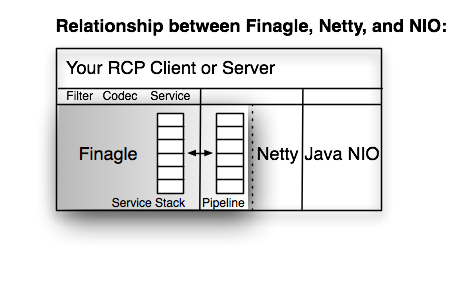
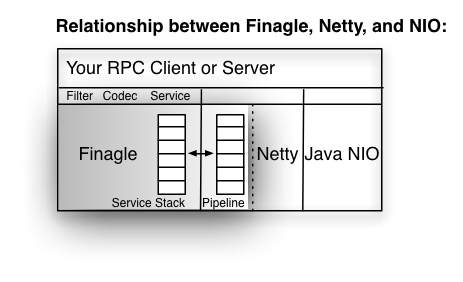
Merge commit 'a8f0b21a582c9198f7b9a493da1fa0eb53cf257a'
(sapling split of f3c1c580bac0fbd24ef6452706ece2a18d01e49e)

Changed region(s): [[0.121, 0.1418, 0.8467, 0.766], [0.121, 0.0567, 0.6652, 0.1135], [0.6955, 0.0567, 0.9676, 0.1135]]

diff --git a/birdcage/finagle/README.md b/birdcage/finagle/README.md
@@ -1,6 +1,6 @@
 <a name="Top"></a>
 
-# Finagle Developer Guide (July 24, 2011 Draft)
+# Finagle Developer Guide (September 8, 2011 Draft)
 
 * <a href="#Quick Start">Quick Start</a>
   - <a href="#Simple HTTP Server">Simple HTTP Server</a>
@@ -40,9 +40,6 @@
 * <a href="#Using ServerSet Objects">Using ServerSet Objects</a>
 * <a href="#Additional Samples">Additional Samples</a>
 * <a href="#API Reference Documentation">API Reference Documentation</a>
-* <a href="#Revision History">Revision History</a>
-  - <a href="#1.4.3 (2011-05-17)">1.4.3 (2011-05-17)</a>
-  - <a href="#1.2.3 (2011-03-18)">1.2.3 (2011-03-18)</a>
 
 <a name="Quick Start"></a>
 
@@ -200,7 +197,8 @@ In this Finagle example, the `ThriftServer` object implements the `Hello` servic
       new Hello.Service(processor, new TBinaryProtocol.Factory()),               // 3
       ServerBuilder.get()
         .name("HelloService")
-        .codec(ThriftServerFramedCodecFactory$.MODULE$)
+        .codec(ThriftServerFramedCodec.get())
+     // .codec(ThriftServerFramedCodecFactory$.MODULE$) previously
         .bindTo(new InetSocketAddress(8080)));
 
 ##### Thrift Server Code Annotations
@@ -323,13 +321,13 @@ Use the Finagle library to implement asynchronous Remote Procedure Call (RPC) cl
 
 ## Architecture
 
-Finagle extends the stream-oriented [Netty](http://www.jboss.org/netty) model to provide asynchronous requests and responses for remote procedure calls (RPC). Internally, Finagle manages a service stack to track outstanding requests, responses, and the events related to them. Finagle uses a Netty pipeline to manage connections between the streams underlying request and response messages. The following diagram shows the relationship between your RCP client or server, Finagle, Netty, and Java libraries:
+Finagle extends the stream-oriented [Netty](http://www.jboss.org/netty) model to provide asynchronous requests and responses for remote procedure calls (RPC). Internally, Finagle manages a service stack to track outstanding requests, responses, and the events related to them. Finagle uses a Netty pipeline to manage connections between the streams underlying request and response messages. The following diagram shows the relationship between your RPC client or server, Finagle, Netty, and Java libraries:
 
-![Relationship between your RCP client or server, Finagle, Netty, and Java Libraries (doc/FinagleRelationship.png)](https://github.com/twitter/finagle/raw/master/doc/FinagleRelationship.png)
+![Relationship between your RPC client or server, Finagle, Netty, and Java Libraries (doc/FinagleRelationship.png)](https://github.com/twitter/finagle/raw/master/doc/FinagleRelationship.png)
 
-Finagle manages a [Netty pipeline](http://docs.jboss.org/netty/3.2/api/org/jboss/netty/channel/ChannelPipeline.html) for servers built on Finagle RCP services. Netty itself is built on the Java [NIO](http://download.oracle.com/javase/1.5.0/docs/api/java/nio/channels/package-summary.html#package_description) library, which supports asynchronous IO. While an understanding of Netty or NIO might be useful, you can use Finagle without this background information.
+Finagle manages a [Netty pipeline](http://docs.jboss.org/netty/3.2/api/org/jboss/netty/channel/ChannelPipeline.html) for servers built on Finagle RPC services. Netty itself is built on the Java [NIO](http://download.oracle.com/javase/1.5.0/docs/api/java/nio/channels/package-summary.html#package_description) library, which supports asynchronous IO. While an understanding of Netty or NIO might be useful, you can use Finagle without this background information.
 
-Finagle objects are the building blocks of RCP clients and servers:
+Finagle objects are the building blocks of RPC clients and servers:
 
 - <a href="#Future Objects">Future objects</a> enable asynchronous operations required by a service
 - <a href="#Service Objects">Service objects</a> perform the work associated with a remote procedure call
@@ -729,7 +727,7 @@ Consider the following diagram, which shows how a client uses the Finagle event 
 
 Your threads, which are shown on the left, are allowed to block. When you call a Finagle method or Finagle calls a method for you, it dispatches execution of these methods to its internal threads. Thus, the Finagle event loop and its threads cannot block without degrading the performance of other clients and servers that use the same Finagle instance.
 
-In complex RCP operations, it may be necessary to perform blocking operations. In these cases, you must set up your own thread pool and use `Future` or `FuturePool` objects to execute the blocking operation on your own thread. Consider the following diagram:
+In complex RPC operations, it may be necessary to perform blocking operations. In these cases, you must set up your own thread pool and use `Future` or `FuturePool` objects to execute the blocking operation on your own thread. Consider the following diagram:
 
 ![Handling operations that block (doc/ThreadExNonBlockingServer.png)](https://github.com/twitter/finagle/raw/master/doc/ThreadExNonBlockingServer.png)
 
@@ -1226,7 +1224,8 @@ A client can access a cluster, as follows:
 * [Complete Core Project Scaladoc](http://twitter.github.com/finagle/api/finagle-core/)
 * [Complete Util Project Scaladoc](http://twitter.github.com/util/util-core/target/site/doc/main/api/)
 
-See the [finagle homepage](http://twitter.github.com/finagle/) for more information.
+For the software revision history, see the [Finagle change log](https://github.com/twitter/finagle/blob/master/ChangeLog).
+For additional information about Finagle, see the [Finagle homepage](http://twitter.github.com/finagle/).
 
 [Top](#Top)
 
